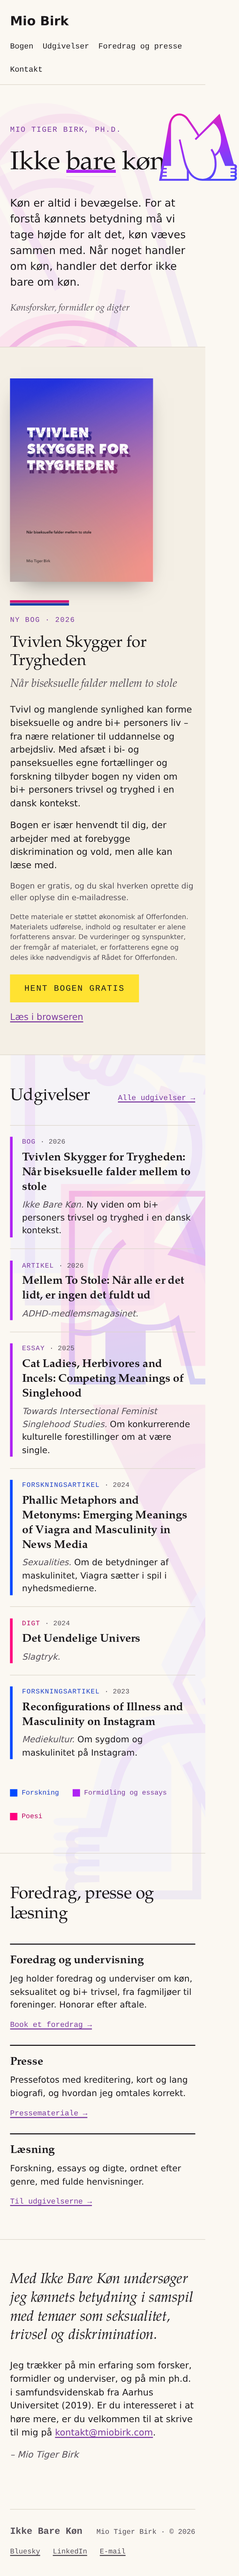
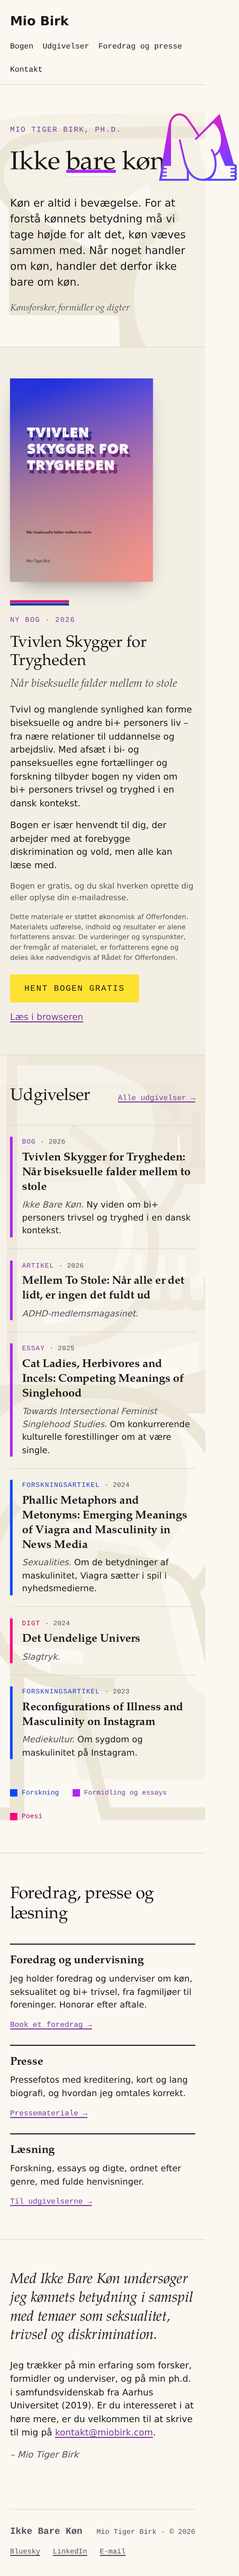
Background spells TIGER in paper-shade watermarks at doubled size
Per Ole: the parallax letters are now the letters TIGER, her middle
name, at doubled sizes (61 to 91rem, five letters, seeded scatter,
overlapping), drawn entirely in shades of the background paper, solid
Pleine one step off the ground and the Claire/Obscure outline one
step deeper, so they read as watermarks with ink text fully legible
above. The hero's gradient outline duo is unchanged and now carries
the page's only strong colour outside the register system.

Claude-Session: https://claude.ai/code/session_01J3ibStbM354Uyysr7SDB7m

diff --git a/design/directions/retning-7-overlappet.html b/design/directions/retning-7-overlappet.html
@@ -89,29 +89,22 @@ a:focus-visible{outline:2.5px solid var(--ink);outline-offset:3px}
 .fesse-layer{position:absolute;inset:0;will-change:transform}
 .fesse{position:absolute;line-height:1}
 .fesse b{display:block;font-weight:400}
-.fesse .f-solid{color:var(--tint,#F3E2F9)}
-.fesse .f-open{
-  position:absolute;top:.045em;left:.05em;
-  background:linear-gradient(170deg,var(--rosa) 0%,var(--lilla) 48%,var(--blaa) 100%);
-  -webkit-background-clip:text;background-clip:text;color:transparent;
-  opacity:var(--open,1);
-}
+.fesse .f-solid{color:var(--tint,#F3ECDD)}
+.fesse .f-open{position:absolute;top:.045em;left:.05em}
+.fesse .f-open.f-shade{color:var(--line,#E5DBC3)}
 .f-pleine{font-family:'Typefesse Pleine',sans-serif}
 .f-claire{font-family:'Typefesse Claire-Obscure',sans-serif}
-/* Only very large shapes in the background, positions from a seeded
-   random scatter (seed 2026), overlapping in pairs. The biggest are
-   almost imperceptible (ghost tints, outline .1); the smaller of the
-   large are gently coloured (outline .3). All pale enough that ink
-   text stays legible above them. */
-.fesse.r0{font-size:51rem;top:1rem;left:-23rem;--tint:#F9EEF2}
-.fesse.r1{font-size:32rem;top:31rem;left:-6rem;--tint:#FBDCEC}
-.fesse.r2{font-size:53rem;top:53rem;right:-18rem;--tint:#F2F1FA}
-.fesse.r3{font-size:37rem;top:79rem;right:-0rem;--tint:#DCE4FB}
-.fesse.r4{font-size:58rem;top:100rem;left:-4rem;--tint:#F2F1FA}
-.fesse.r5{font-size:33rem;top:133rem;right:-6rem;--tint:#FBDCEC}
-.fesse.r6{font-size:55rem;top:153rem;right:-24rem;--tint:#F9EEF2}
-.fesse.r7{font-size:50rem;top:178rem;right:-20rem;--tint:#F2F1FA}
-@media (max-width:56rem){.fesse{opacity:.7}}
+/* The background spells TIGER down the page: five huge letters
+   (60 to 116rem), seeded random scatter (seed 2026), overlapping,
+   drawn entirely in shades of the paper (solid a step off the ground,
+   outline a step deeper) so they read as watermarks and ink text stays
+   legible above them. */
+.fesse.r0{font-size:67rem;top:0rem;left:-6rem;--tint:#F4EFE3;--line:#E9E1D0}
+.fesse.r1{font-size:91rem;top:40rem;right:-13rem;--tint:#F4EFE3;--line:#ECE5D6}
+.fesse.r2{font-size:73rem;top:70rem;left:-27rem;--tint:#F6F1E7;--line:#ECE5D6}
+.fesse.r3{font-size:61rem;top:110rem;right:-11rem;--tint:#F6F1E7;--line:#ECE5D6}
+.fesse.r4{font-size:74rem;top:146rem;right:-9rem;--tint:#F4EFE3;--line:#E9E1D0}
+@media (max-width:56rem){.fesse{opacity:.8}}
 /* The hero's own pair: two partially overlapping outline-only glyphs at
    medium size, full gradient, no solid layer. */
 .hero{overflow:hidden}
@@ -227,17 +220,14 @@ footer .flinks{display:flex;gap:1.5rem}
 <a class="skip" href="#indhold">Gå til indhold</a>
 
 <div class="fesse-sky" aria-hidden="true">
-  <div class="fesse-layer" data-speed="0.12">
-    <span class="fesse r0"><b class="f-pleine f-solid">m</b><b class="f-claire f-open" style="--open:.1">m</b></span>
-    <span class="fesse r2"><b class="f-pleine f-solid">t</b><b class="f-claire f-open" style="--open:.1">t</b></span>
-    <span class="fesse r4"><b class="f-pleine f-solid">k</b><b class="f-claire f-open" style="--open:.1">k</b></span>
-    <span class="fesse r6"><b class="f-pleine f-solid">V</b><b class="f-claire f-open" style="--open:.1">V</b></span>
-    <span class="fesse r7"><b class="f-pleine f-solid">a</b><b class="f-claire f-open" style="--open:.1">a</b></span>
+  <div class="fesse-layer" data-speed="0.1">
+    <span class="fesse r1"><b class="f-pleine f-solid">I</b><b class="f-claire f-open f-shade">I</b></span>
   </div>
-  <div class="fesse-layer" data-speed="0.25">
-    <span class="fesse r1"><b class="f-pleine f-solid">o</b><b class="f-claire f-open" style="--open:.3">o</b></span>
-    <span class="fesse r3"><b class="f-pleine f-solid">s</b><b class="f-claire f-open" style="--open:.3">s</b></span>
-    <span class="fesse r5"><b class="f-pleine f-solid">K</b><b class="f-claire f-open" style="--open:.3">K</b></span>
+  <div class="fesse-layer" data-speed="0.22">
+    <span class="fesse r0"><b class="f-pleine f-solid">T</b><b class="f-claire f-open f-shade">T</b></span>
+    <span class="fesse r2"><b class="f-pleine f-solid">G</b><b class="f-claire f-open f-shade">G</b></span>
+    <span class="fesse r3"><b class="f-pleine f-solid">E</b><b class="f-claire f-open f-shade">E</b></span>
+    <span class="fesse r4"><b class="f-pleine f-solid">R</b><b class="f-claire f-open f-shade">R</b></span>
   </div>
 </div>
 

diff --git a/design/TYPOGRAPHY-COLOUR.md b/design/TYPOGRAPHY-COLOUR.md
@@ -189,15 +189,15 @@ Charset, measured from the shipped woff2 cmaps (173 glyphs): basic Latin
 plus Western European accents; **no æ, ø, Æ or Ø** (å and Å exist).
 Vignettes therefore use base Latin characters only.
 
-The site's implementation, final form: the background carries only very
-large shapes (30 to 58rem), eight of them, positions from a seeded
-random scatter (seed 2026) nudged so they overlap in pairs. The biggest
-are almost imperceptible (ghost tints, outline opacity .1); the smaller
-of the large are gently coloured (outline .3); all are pale enough that
-ink text stays legible above them. Each stacks a solid Pleine tint
-under a gradient Claire or Obscure form offset like the book cover's
-shadow play. Two depth layers parallax at 0.12 and 0.25 of scroll
-speed; static without JavaScript and under prefers-reduced-motion.
-Separate from the parallax, the hero carries its own pair: two
-partially overlapping outline-only Claire-Obscure glyphs at medium
-size (16 to 19rem) in the full gradient, with no solid layer.
+The site's implementation, final form: the background spells TIGER,
+her middle name, down the page in five huge letters (61 to 91rem),
+positions from a seeded random scatter (seed 2026), overlapping, drawn
+entirely in shades of the paper: solid Pleine a step off the ground
+(#F4EFE3 / #F6F1E7), Claire/Obscure outline a step deeper (#E9E1D0 /
+#ECE5D6), offset like the book cover's shadow play. They read as
+watermarks; ink text stays legible above every letter. Two depth
+layers parallax at 0.10 and 0.22 of scroll speed; static without
+JavaScript and under prefers-reduced-motion. Separate from the
+parallax, the hero carries its own pair: two partially overlapping
+outline-only Claire-Obscure glyphs at medium size (16 to 19rem) in the
+full triad gradient, with no solid layer.
